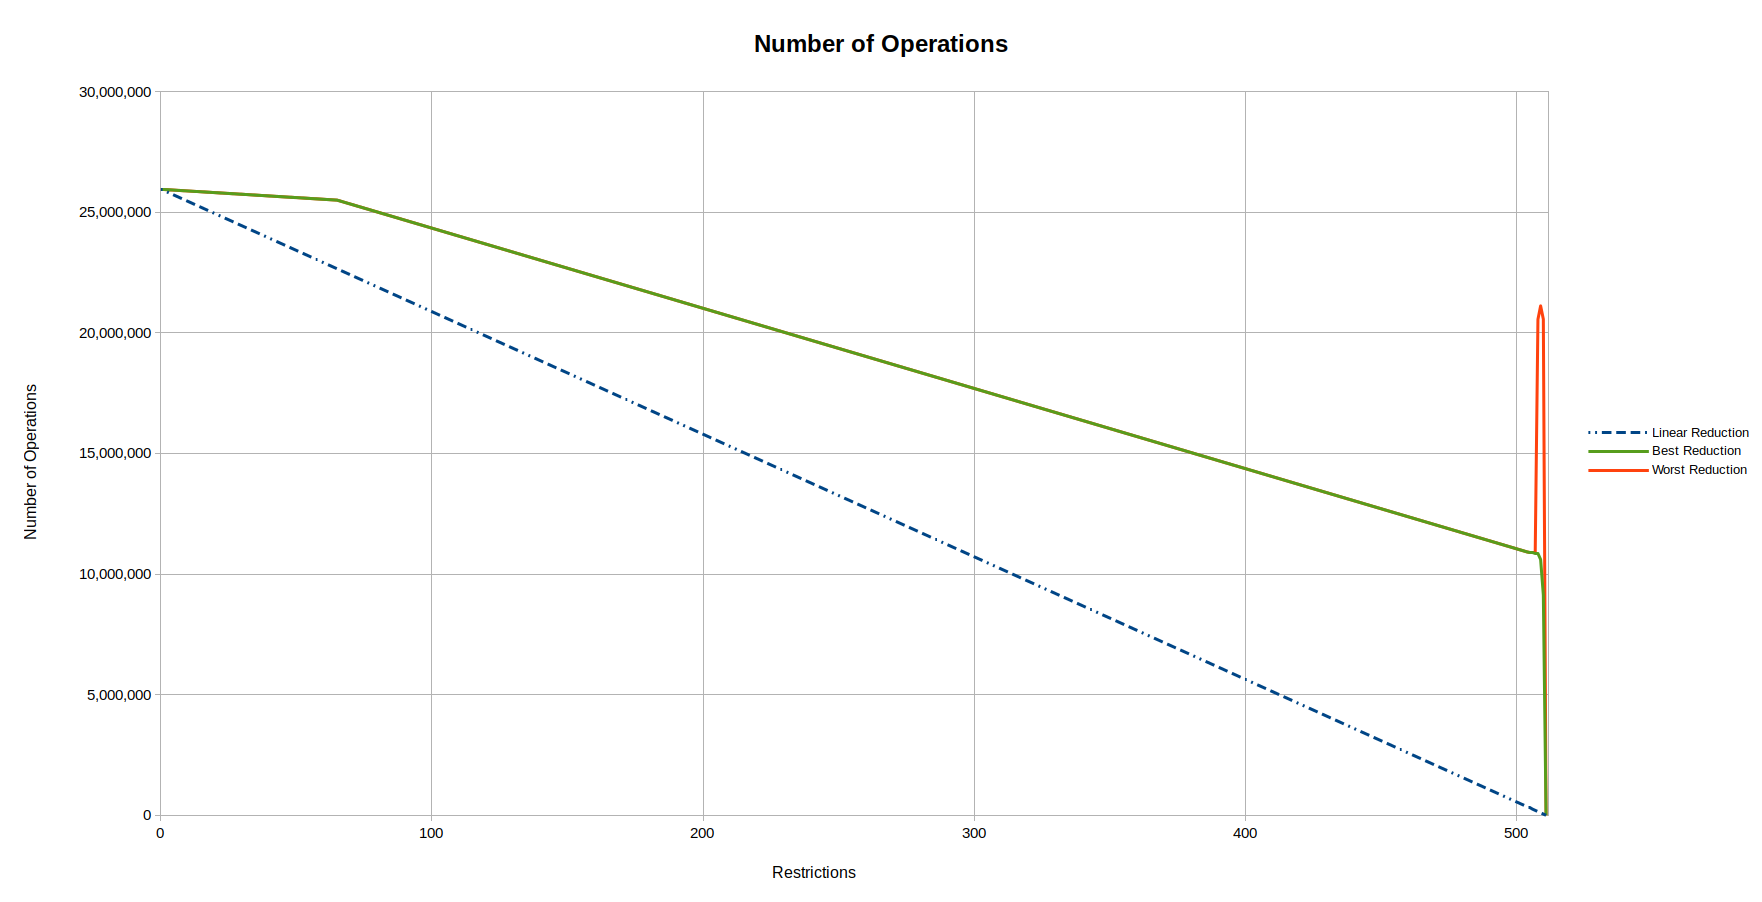
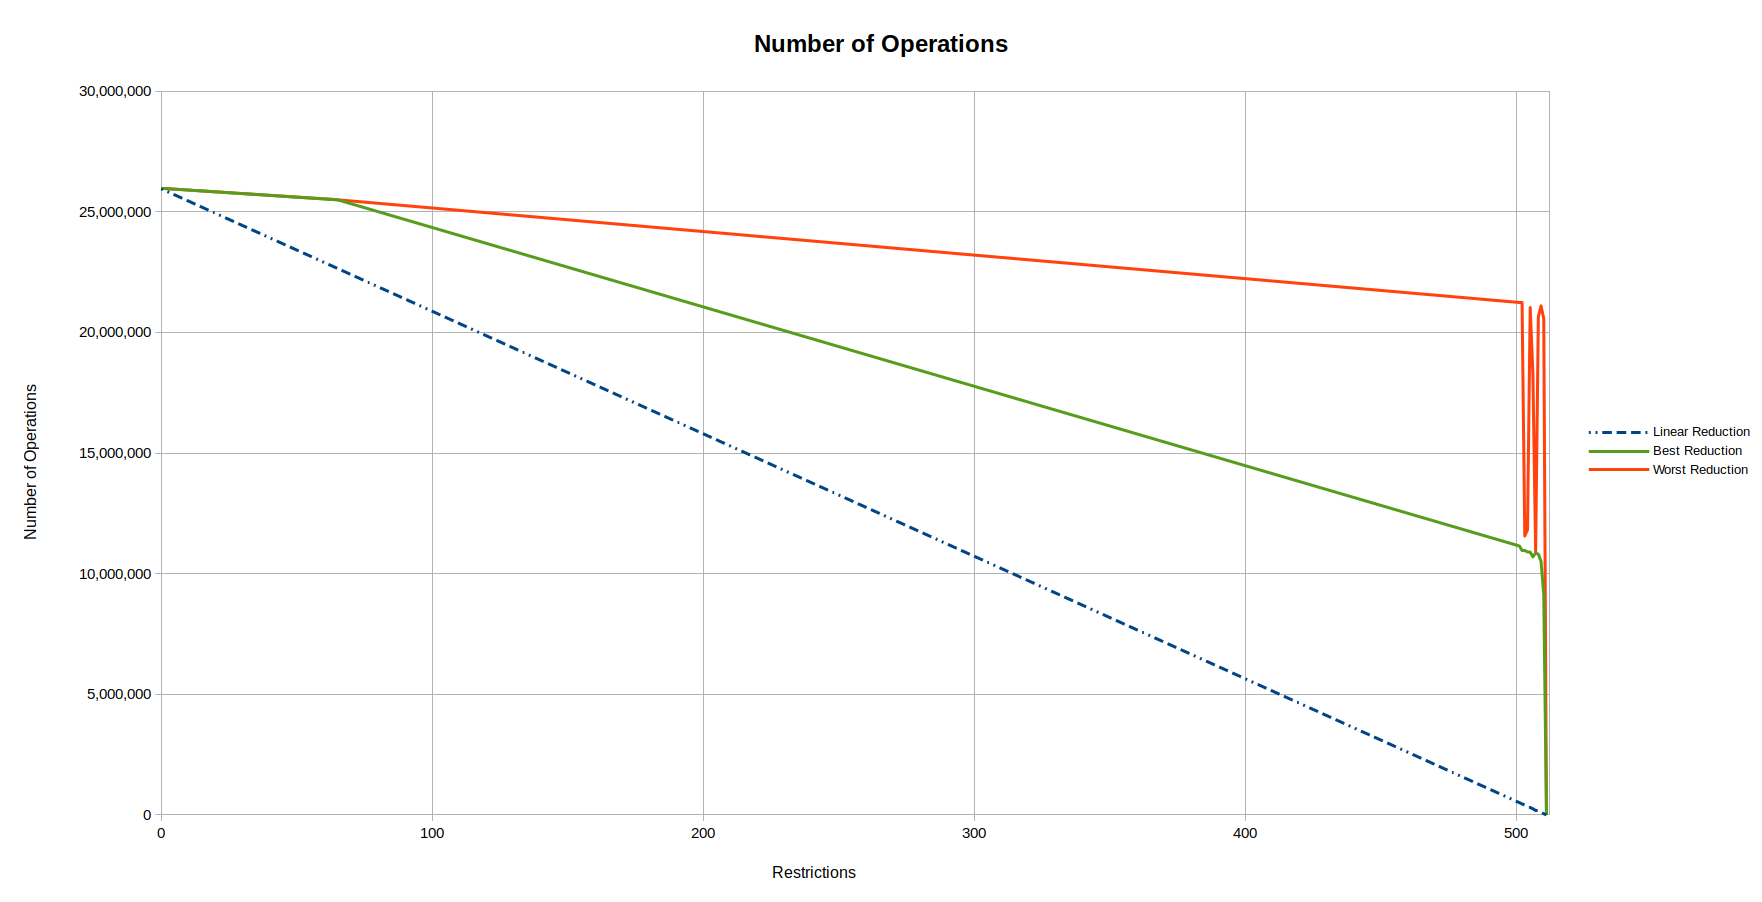
Updated the results page

diff --git a/results/Overview.md b/results/Overview.md
@@ -183,12 +183,12 @@ Results better than the exponential reduction are marked in bold.
 | 0 | 2.611×10^405 | 2.611×10^405 | 2.611×10^405 |
 | 1 | 4.202×10^404 | 2.611×10^405 | 2.611×10^405 |
 | 65 | 7.034×10^353 | 7.898×10^403 | 7.898×10^403 |
-| 501 | 8.586×10^7 | 2.732×10^300 | 1.226×10^372 |
+| 501 | 8.586×10^7 | 2.732×10^300 | 6.550×10^371 |
 | 502 | 1.382×10^7 | 1.053×10^299 | 9.656×10^371 |
 | 503 | 2.223×10^6 | 8.191×10^298 | 5.002×10^304 |
 | 504 | 3.578×10^5 | 2.341×10^297 | 2.463×10^306 |
 | 505 | 5.758×10^4 | 4.597×10^296 | 3.063×10^369 |
-| 506 | 9.266×10^3 | 3.825×10^296 | 2.296×10^297 |
+| 506 | 9.266×10^3 | 2.153×10^295 | 4.573×10^349 |
 | 507 | 1.491×10^3 | 1.631×10^295 | 1.001×10^297 |
 | 508 | 2.400×10^2 | 1.456×10^293 | 2.243×10^365 |
 | 509 | 3.862×10^1 | 6.969×10^289 | 1.167×10^369 |
@@ -227,12 +227,15 @@ Results better than the linear reduction are marked in bold.
 | 0 | 25,956,122 | 25,956,122 | 25,956,122 |
 | 1 | 25,905,327 | 25,950,718 | 25,950,718 |
 | 65 | 22,654,463 | 25,500,762 | 25,500,762 |
-| 504 | 355,563 | 10,916,919 | 10,916,919 |
-| 505 | 304,769 | 10,912,992 | 10,913,147 |
-| 506 | 253,974 | 10,909,244 | 10,909,538 |
+| 501 | 507,948 | 11,147,863 | 21,239,184 |
+| 502 | 457,153 | 10,950,245 | 21,224,790 |
+| 503 | 406,358 | 10,956,999 | 11,565,584 |
+| 504 | 355,563 | 10,902,150 | 11,824,083 |
+| 505 | 304,769 | 10,894,435 | 21,032,498 |
+| 506 | 253,974 | 10,695,662 | 18,273,276 |
 | 507 | 203,179 | 10,857,293 | 10,905,494 |
-| 508 | 152,384 | 10,841,896 | 20,558,782 |
-| 509 | 101,590 | 10,603,142 | 21,116,857 |
+| 508 | 152,384 | 10,807,632 | 20,663,448 |
+| 509 | 101,590 | 10,514,066 | 21,102,747 |
 | 510 | 50,795 | 9,126,531 | 20,564,230 |
 | 511 | 0 | 0 | 0 |
 
@@ -264,18 +267,18 @@ Results better than the linear reduction are marked in bold.
 
 | Restrictions | Linear Reduction | Best Reduction | Worst Reduction |
 |:------------:|:----------------:|:--------------:|:---------------:|
-|       0      | 47,947           | 47,947         | 47,947          |
-|       1      | 47,853           | 47,947         | 47,947          |
-|      65      | 41,848           | **24,116**     | **24,116**      |
-| 501 | 938 | 31,442 | 39,598 |
-| 502 | 844 | 31,103 | 39,554 |
+| 0 | 47,947 | 47,947 | 47,947 |
+| 1 | 47,853 | 47,947 | 47,947 |
+| 65 | 41,848 | **24,116** | 24,116 |
+| 501 | 938 | 31,248 | 39,424 |
+| 502 | 844 | 30,918 | 39,554 |
 | 503 | 751 | 31,072 | 31,606 |
 | 504 | 657 | 30,670 | 31,333 |
 | 505 | 563 | 30,333 | 38,550 |
-| 506 | 469 | 30,299 | 30,656 |
+| 506 | 469 | 29,988 | 36,943 |
 | 507 | 375 | 30,061 | 30,543 |
-| 508 | 281 | 29,698 | 37,806 |
-| 509 | 188 | 29,411 | 38,035 |
+| 508 | 281 | 29,698 | 37,772 |
+| 509 | 188 | 29,319 | 38,006 |
 | 510 | 94 | 27,700 | 37,558 |
 | 511 | 0 | 0 | 0 |
 
